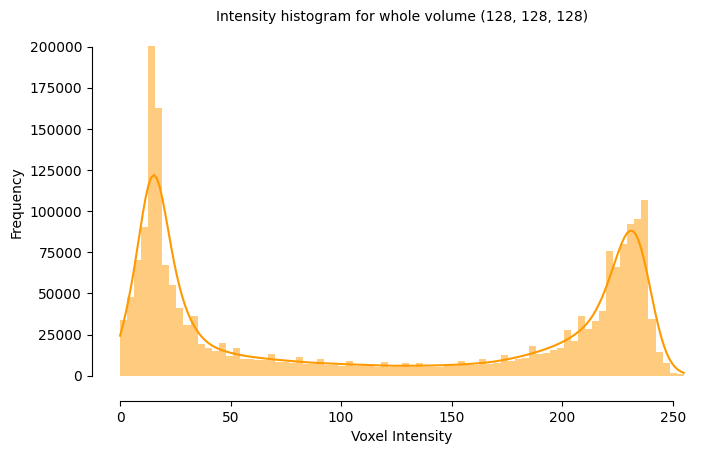
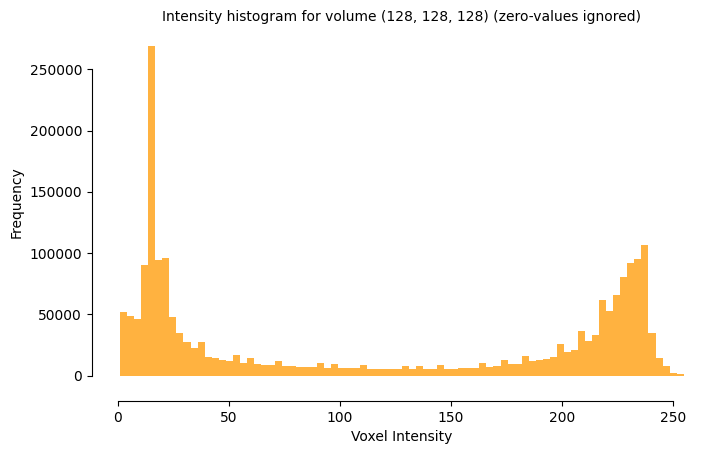
upgraded viz.histogram and added operations.subsample

diff --git a/qim3d/viz/_data_exploration.py b/qim3d/viz/_data_exploration.py
@@ -37,6 +37,7 @@ from skimage.filters import (
 )
 
 import qim3d
+import qim3d.operations
 from qim3d.utils import log
 
 # For progress bar in Jupyter notebooks
@@ -876,18 +877,20 @@ def chunks(zarr_path: str, **kwargs) -> widgets.VBox:
 
 def histogram(
     volume: np.ndarray,
+    subsample_level: int | list[int] = 1,
+    ignore_zero: bool = True,
     bins: int | str = 'auto',
     slice_idx: int | str | None = None,
     vertical_line: int = None,
     axis: int = 0,
-    kde: bool = True,
+    kde: bool = False,
     log_scale: bool = False,
     despine: bool = True,
     show_title: bool = True,
     color: str = 'qim3d',
     edgecolor: str | None = None,
     figsize: tuple[float, float] = (8, 4.5),
-    element: str = 'step',
+    bin_style: Literal['bars', 'step', 'poly'] = 'step',
     return_fig: bool = False,
     show: bool = True,
     ax: plt.Axes | None = None,
@@ -900,19 +903,21 @@ def histogram(
 
     Args:
         volume (np.ndarray): A 3D NumPy array representing the volume to be visualized.
+        subsample_level (int or list[int], optional): A positive integer representing the coarseness of the subsampling. A value of 1 (default) uses the original volume, a value of 2 uses every second element along each axis and so on. Used to reduce the needed computation.
+        ignore_zero (bool, optional): Specifies if zero-values in the volume should be ignored.
         bins (Union[int, str], optional): Number of histogram bins or a binning strategy (e.g., "auto"). Default is "auto".
         axis (int, optional): Axis along which to take a slice. Default is 0.
         slice_idx (Union[int, str], optional): Specifies the slice to visualize. If an integer, it represents the slice index along the selected axis.
                                                If "middle", the function uses the middle slice. If None, the entire volume is visualized. Default is None.
         vertical_line (int, optional): Intensity value for a vertical line to be drawn on the histogram. Default is None.
-        kde (bool, optional): Whether to overlay a kernel density estimate. Default is True.
+        kde (bool, optional): Whether to overlay a kernel density estimate.
         log_scale (bool, optional): Whether to use a logarithmic scale on the y-axis. Default is False.
         despine (bool, optional): If True, removes the top and right spines from the plot for cleaner appearance. Default is True.
         show_title (bool, optional): If True, displays a title with slice information. Default is True.
         color (str, optional): Color for the histogram bars. If "qim3d", defaults to the qim3d color. Default is "qim3d".
         edgecolor (str, optional): Color for the edges of the histogram bars. Default is None.
         figsize (tuple, optional): Size of the figure (width, height). Default is (8, 4.5).
-        element (str, optional): Type of histogram to draw ('bars', 'step', or 'poly'). Default is "step".
+        bin_style (str, optional): Type of histogram to draw ('bars', 'step', or 'poly'). Default is "step".
         return_fig (bool, optional): If True, returns the figure object instead of showing it directly. Default is False.
         show (bool, optional): If True, displays the plot. If False, suppresses display. Default is True.
         ax (matplotlib.axes.Axes, optional): Axes object where the histogram will be plotted. Default is None.
@@ -937,10 +942,23 @@ def histogram(
         ```
         ![viz histogram](../../assets/screenshots/viz-histogram-vol.png)
 
+        ```python
+        import qim3d
+
+        vol = qim3d.examples.bone_128x128x128
+        qim3d.viz.histogram(vol, subsample_level=3, kde=True, log_scale=True, bin_style='bars', edgecolor='white')
+        ```
+        ![viz histogram](../../assets/screenshots/viz-histogram-vol-2.png)
+
     """
     if not (0 <= axis < volume.ndim):
         msg = f'Axis must be an integer between 0 and {volume.ndim - 1}.'
         raise ValueError(msg)
+
+    title_suffixes = []
+    if subsample_level != 1:
+        volume = qim3d.operations.subsample(volume, subsample_level)
+        title_suffixes.append('subsampled shape')
 
     if slice_idx == 'middle':
         slice_idx = volume.shape[axis] // 2
@@ -955,7 +973,14 @@ def histogram(
             raise ValueError(msg)
     else:
         data = volume.ravel()
-        title = f'Intensity histogram for whole volume {volume.shape}'
+        title = f'Intensity histogram for volume {volume.shape}'
+
+    if ignore_zero:
+        data = data[data > 0]
+        title_suffixes.append('zero-values ignored')
+
+    if title_suffixes:
+        title += ' (' + ', '.join(title_suffixes) + ')'
 
     # Use provided Axes or create new figure
     if ax is None:
@@ -974,7 +999,7 @@ def histogram(
         bins=bins,
         kde=kde,
         color=color,
-        element=element,
+        element=bin_style,
         edgecolor=edgecolor,
         ax=ax,  # Plot directly on the specified Axes
         **sns_kwargs,

diff --git a/qim3d/operations/_slicing_operations.py b/qim3d/operations/_slicing_operations.py
@@ -1,6 +1,8 @@
 import numpy as np
 from scipy.ndimage import map_coordinates
 
+from qim3d.utils import log
+
 
 class _Slicer:
     """Slicer class by @laprade117, with a customized `get_slice` method to support rectangular slices."""
@@ -343,3 +345,39 @@ def get_random_slice(
     slice2d = slicer.get_slice(volume, width=width, length=length)
 
     return slice2d
+
+
+def subsample(volume: np.ndarray, coarseness: int | list[int]) -> np.ndarray:
+    """
+    Return an evenly spaced subsample of a volume.
+
+    The returned volume is a **view** of the original volume, meaning that it references the same underlying memory but with modified strides. Thus changes to the returned volume will affect the original.
+
+    Args:
+        volume (np.ndarray): The input 3D volume to be subsampled.
+        coarseness (int or list[int]): Controls the spacing between sampled elements. Must be a positive integer. A value of 1 returns the original volume, a value of 2 samples every second element along each axis and so on. Can also be a list of length 3, a value for each dimension.
+
+    Returns:
+        np.ndarray: The subsampled 3D volume.
+
+    """
+    if isinstance(coarseness, int):
+        coarseness = tuple(coarseness for _ in range(3))
+
+    vol_subsample = volume[tuple(slice(None, None, step) for step in coarseness)]
+    ratio = vol_subsample.size / volume.size
+    log.info(f'Subsampled volume is {100*ratio:.3g}% of the original volume.')
+
+    # User warnings
+    min_elements = 1000
+    min_axis_len = 5
+    if vol_subsample.size < min_elements:
+        log.info(
+            f'User warning: less than {min_elements} elements in subsample. Consider using a lower coarseness for higher precision.'
+        )
+    elif np.min(vol_subsample.shape) < min_axis_len:
+        log.info(
+            f'User warning: subsampled volume contains an axis with size less than {min_axis_len}. Consider using a lower coarseness for higher precision.'
+        )
+
+    return vol_subsample

diff --git a/qim3d/operations/__init__.py b/qim3d/operations/__init__.py
@@ -6,7 +6,10 @@ from ._common_operations_methods import (
     overlay_rgb_images,
     remove_background,
 )
-from ._slicing_operations import get_random_slice
+from ._slicing_operations import (
+    get_random_slice,
+    subsample,
+)
 from ._volume_operations import (
     center_twist,
     curve_warp,
@@ -30,4 +33,5 @@ __all__ = [
     'stretch',
     'trim',
     'get_random_slice',
+    'subsample',
 ]
